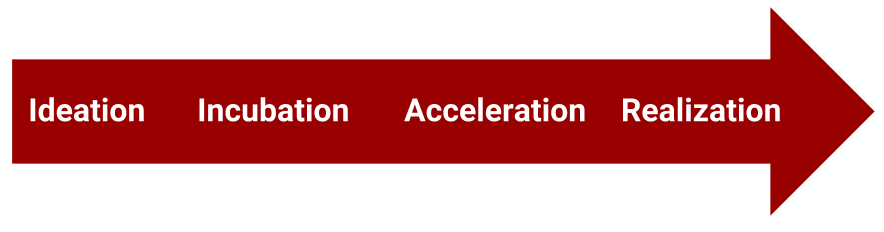
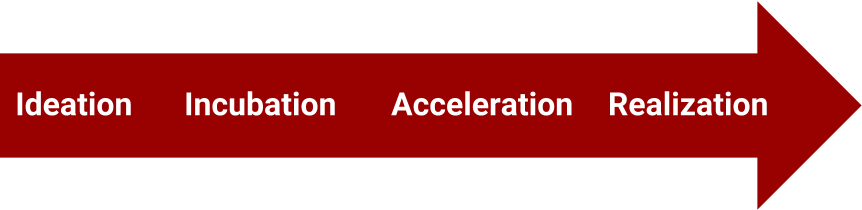
update arrow, update hackathon modal by adding their website, add well to describe HW venture a bit more #todo - update info on well?

diff --git a/index.html b/index.html
@@ -43,9 +43,13 @@
       <center>
         <img id=logo class="animate lightSpeedIn" src=static/images/hwventure.png>
         <br>
-        <img src=static/images/arrow2.png class="animate fadeIn img-reactive">
+        <img src=static/images/arrow.png class="animate fadeIn img-reactive">
         <br>
       </center>
+      <div class="well">
+        <h3>The Innovation Hub of Southern California</h3>
+        <p>HW Venture aims to take ideas from Ideation to Realization.</p>
+      </div>
       <div class="row">
         <!--Ideation-->
         <div class="col-md-3">
@@ -171,6 +175,11 @@
               The role of the Hackathon team is to to host Hackathons for both Harvard-Westlake and the community. These are events focused around finding inventive solutions to important problems. During our first Hackathon of the year we will be brainstorming the problems that will be explored in future Hackathons.
             </div>
           </div>
+        </div>
+        <div class="modal-footer">
+          <button type="button" class="btn btn-default" onclick="location.href='http://www.hw.com/hackhw/index.html'">
+            Hack HW Website <span class="glyphicon glyphicon-chevron-right" aria-hidden="true"></span>
+          </button>
         </div>
       </div>
     </div>
